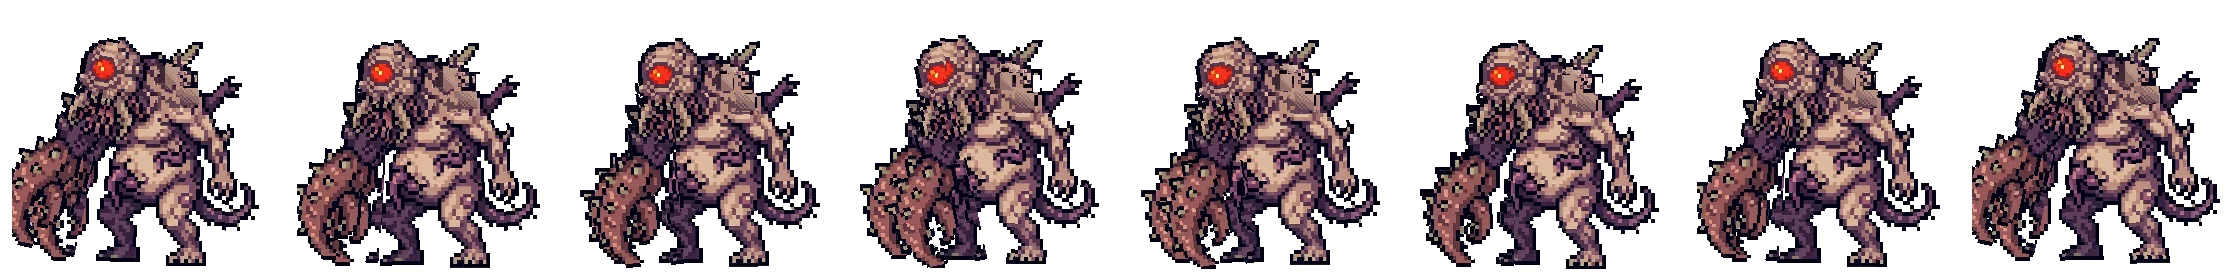
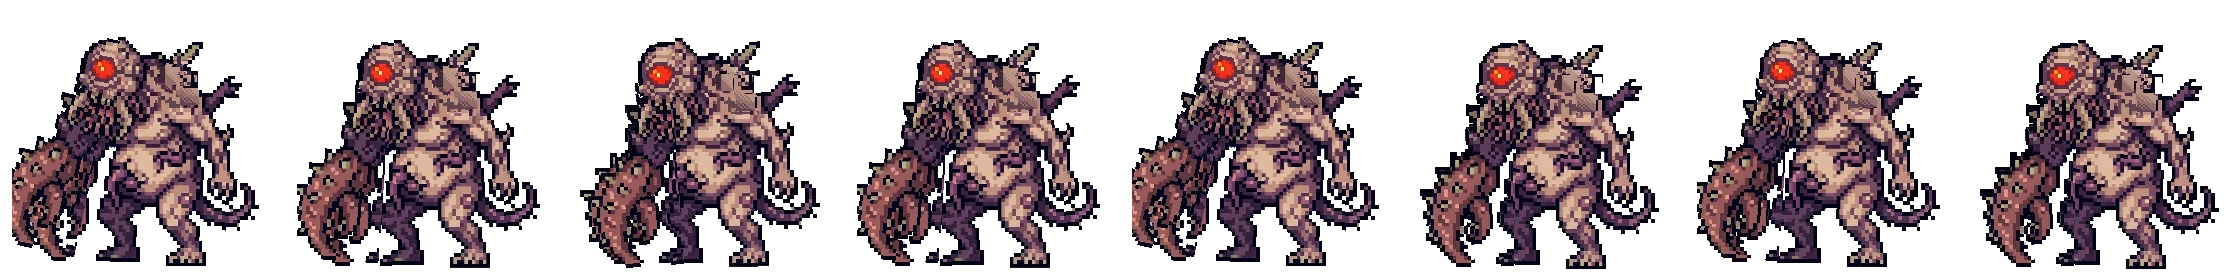
fix(boss): eliminate Abomination double claw glitch and polish attack poses

Changed region(s): [[0.375, 0.1143, 0.625, 0.9714], [0.875, 0.1143, 1.0, 0.9714]]

diff --git a/index.html b/index.html
@@ -12701,6 +12701,7 @@ function update(dt){
           e.actionT = 0.70;
           e.slamAngle = Math.atan2(p.y - e.y, p.x - e.x);
           e.facing = dx >= 0 ? 1 : -1;
+          e.frame = 2;
           continue;
         }else if(e.chargeCd <= 0 && d > 140){
           e.action = 'charge_prep';
@@ -12709,23 +12710,27 @@ function update(dt){
           e.chargeDist = 0;
           e.chargeMaxDist = Math.min(400, d + 70);
           e.facing = dx >= 0 ? 1 : -1;
+          e.frame = 5;
           Sfx.play('dash');
           continue;
         }else if(e.riftCd <= 0){
           e.action = 'rift_prep';
           e.actionT = 0.75;
           e.facing = dx >= 0 ? 1 : -1;
+          e.frame = 0;
           continue;
         }else if(e.spitCd <= 0){
           e.action = 'spit_prep';
           e.actionT = 0.65;
           e.facing = dx >= 0 ? 1 : -1;
+          e.frame = 6;
           continue;
         }else if(e.slamCd <= 0){
           e.action = 'slam_windup';
           e.actionT = 0.70;
           e.slamAngle = Math.atan2(p.y - e.y, p.x - e.x);
           e.facing = dx >= 0 ? 1 : -1;
+          e.frame = 2;
           continue;
         }else{
           // Поступь Титана
@@ -12739,6 +12744,7 @@ function update(dt){
         }
       }else if(e.action === 'slam_windup'){
         e.actionT -= dt;
+        e.frame = 2;
         e.facing = (p.x - e.x) >= 0 ? 1 : -1;
         keepInsideBossArena(e, g.bossArena, 72);
         if(Math.random() < 0.6){
@@ -12754,6 +12760,7 @@ function update(dt){
         if(e.actionT <= 0){
           e.action = 'slam_smash';
           e.actionT = 0.35;
+          e.frame = 1;
           Sfx.play('anvil');
           g.shake = 0.7;
           // 5-7 фиолетовых серповидных лезвий Бездны
@@ -12798,6 +12805,7 @@ function update(dt){
         continue;
       }else if(e.action === 'slam_smash'){
         e.actionT -= dt;
+        e.frame = 1;
         keepInsideBossArena(e, g.bossArena, 72);
         if(e.actionT <= 0){
           e.action = 'idle';
@@ -12806,6 +12814,7 @@ function update(dt){
         continue;
       }else if(e.action === 'charge_prep'){
         e.actionT -= dt;
+        e.frame = 5;
         keepInsideBossArena(e, g.bossArena, 72);
         if(e.actionT > 0.25){
           e.chargeAng = Math.atan2(p.y - e.y, p.x - e.x);
@@ -12831,6 +12840,8 @@ function update(dt){
         continue;
       }else if(e.action === 'charge_rush'){
         e.actionT -= dt;
+        e.animT = (e.animT || 0) + dt * 14;
+        e.frame = Math.floor(e.animT) % 8;
         const rushSpeed = e.enraged ? 420 : 360;
         const stepDist = rushSpeed * dt;
         e.chargeDist += stepDist;
@@ -12859,12 +12870,14 @@ function update(dt){
         if(e.chargeDist >= e.chargeMaxDist || e.actionT <= 0){
           e.action = 'charge_recover';
           e.actionT = 0.35;
+          e.frame = 0;
           Sfx.play('anvil');
           g.shake = 0.6;
         }
         continue;
       }else if(e.action === 'charge_recover'){
         e.actionT -= dt;
+        e.frame = 0;
         keepInsideBossArena(e, g.bossArena, 72);
         if(e.actionT <= 0){
           e.action = 'idle';
@@ -12873,6 +12886,7 @@ function update(dt){
         continue;
       }else if(e.action === 'spit_prep'){
         e.actionT -= dt;
+        e.frame = 6;
         e.facing = (p.x - e.x) >= 0 ? 1 : -1;
         keepInsideBossArena(e, g.bossArena, 72);
         if(Math.random() < 0.6){
@@ -12910,6 +12924,7 @@ function update(dt){
         continue;
       }else if(e.action === 'rift_prep'){
         e.actionT -= dt;
+        e.frame = 0;
         e.facing = (p.x - e.x) >= 0 ? 1 : -1;
         keepInsideBossArena(e, g.bossArena, 72);
         if(e.actionT <= 0){
@@ -19312,6 +19327,32 @@ function drawAbominationBoss(e, ox, oy){
   // 3. Спрайт Мутанта-Аберрации
   cx.translate(ex, ey);
   if(e.facing > 0) cx.scale(-1, 1);
+
+  // Динамические позы действий титана
+  if(e.action === 'slam_windup'){
+    const windProg = 1 - Math.max(0, (e.actionT || 0) / 0.70);
+    cx.rotate(-0.14 * windProg);
+    cx.translate(0, -6 * windProg);
+  } else if(e.action === 'slam_smash'){
+    const smashProg = 1 - Math.max(0, (e.actionT || 0) / 0.35);
+    cx.rotate(0.18 * (1 - smashProg * 0.5));
+    cx.translate(6, 6 * (1 - smashProg * 0.5));
+  } else if(e.action === 'charge_prep'){
+    const prepShake = (Math.random() - 0.5) * 2.5;
+    cx.translate(prepShake, 4);
+    cx.scale(1.05, 0.95);
+  } else if(e.action === 'charge_rush'){
+    cx.rotate(0.12);
+    cx.translate(6, -2);
+  } else if(e.action === 'charge_recover'){
+    const recProg = Math.max(0, (e.actionT || 0) / 0.35);
+    cx.rotate(-0.07 * recProg);
+    cx.translate(0, 3 * recProg);
+  } else if(e.action === 'spit_prep'){
+    const spitPulse = Math.sin(performance.now() * 0.02) * 2.5;
+    cx.translate(0, spitPulse);
+  }
+
   if(e.fl > 0) cx.filter = 'brightness(3)';
   else if(e.enraged) cx.filter = 'contrast(1.3) saturate(1.4)';
 
